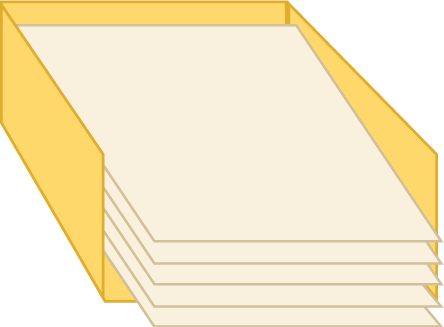
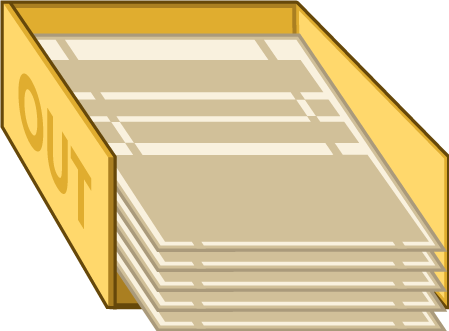
Scores + card backs

diff --git a/src/scripts/state/score.ts b/src/scripts/state/score.ts
@@ -1,21 +1,104 @@
 module Ala3.State {
     export class Score extends Phaser.State {
 
-        points: number;
-        accuracy: number;
-        gameWon: boolean;
+        score: any;
 
-        init(points, accuracy, gameWon) {
-            this.points = points;
-            this.accuracy = accuracy;
-            this.gameWon = gameWon;
-
-            console.log(points, accuracy, gameWon);
+        init(score) {
+            this.score = score;
         }
 
         create() {
+            this.add.sprite(0, 0, 'end-screen');
 
-            console.log('points', this.points);
+            let button = new Phaser.Rectangle(
+                693,
+                654,
+                304,
+                58
+            );
+
+            this.game.input.onDown.add(function (pointer: Phaser.Pointer) {
+                if (button.contains(pointer.x, pointer.y)) {
+                    this.restart();
+                }
+            }, this);
+
+            let fontStyle = {
+                font: '22px Arial',
+                colour: '#000'
+            };
+
+            // print results
+
+            let mult = 10;
+            let total = this.score.actionsCorrect * mult;
+            let bonus;
+
+            total += this.score.cards * mult;
+
+            if (this.score.difficulty === Game.DIFFICULTY_EASY) {
+                bonus = -(total * 0.2);
+                total = total + bonus;
+
+                bonus = Math.round(bonus);
+                total = Math.round(total);
+            } else if (this.score.difficulty === Game.DIFFICULTY_HARD) {
+                bonus = (total * 0.5);
+                total = total + bonus;
+
+                bonus = Math.round(bonus);
+                total = Math.round(total);
+            }
+
+
+            let s:string;
+
+            // expected
+            this.add.text(471, 395, this.score.actionsDone.toString(), fontStyle);
+
+            s = (this.score.actionsDone * mult).toString();
+            this.add.text(794, 395, s, fontStyle);
+
+            // successful
+            this.add.text(471, 420, this.score.actionsCorrect.toString(), fontStyle);
+
+            s = '-' + ((this.score.actionsDone - this.score.actionsCorrect) * mult).toString();
+            this.add.text(794, 420, s, fontStyle);
+
+            // solitaire
+            s = (this.score.cards * mult).toString();
+            this.add.text(795, 446, s, fontStyle);
+
+            // bonuses
+            if (this.score.difficulty === Game.DIFFICULTY_EASY) {
+                this.add.text(109, 499, 'LIFE\'S A BEACH DEDUCTION', fontStyle);
+                this.add.text(471, 499, '1', fontStyle);
+                this.add.text(794, 499, bonus.toString(), fontStyle);
+            } else if (this.score.difficulty === Game.DIFFICULTY_HARD) {
+                this.add.text(109, 499, 'WORKING HALLOWEEN BONUS', fontStyle);
+                this.add.text(471, 499, '1', fontStyle);
+                this.add.text(794, 499, bonus.toString(), fontStyle);
+            }
+
+            // total
+            fontStyle.font = '33px Arial';
+            this.add.text(841, 552, total.toString(), fontStyle);
+
+
+            // date
+
+            let today = new Date();
+            let dateString = today.toLocaleString('en-us', {
+                month: 'long',
+                day: 'numeric',
+                year: 'numeric'
+            });
+
+            fontStyle.font = 'bold 22px Arial';
+            this.add.text(433, 232, dateString.toUpperCase(), fontStyle);
+
+
+            /*console.log('points', this.points);
 
             let mult = Math.round(this.accuracy * 100);
 
@@ -27,9 +110,11 @@ module Ala3.State {
 
             if (this.gameWon) {
                 console.log('game won bonus (2x)', score * 2);
-            }
+            }*/
         }
 
-
+        restart() {
+            this.state.start('title', true);
+        }
     }
 }

diff --git a/src/scripts/state/game.ts b/src/scripts/state/game.ts
@@ -62,7 +62,7 @@ module Ala3.State {
 
             this.clock = this.add.sprite(397, 29, 'clock-0');
 
-            this.computer = new Entity.Computer(this.game, 548, -7);
+            this.computer = new Entity.Computer(this.game, 548, -7, this.difficulty);
             this.add.existing(this.computer);
 
             let shine = new Phaser.Sprite(this.game, 921, 74, 'computer-shine');
@@ -73,7 +73,7 @@ module Ala3.State {
             this.add.existing(this.cursorTool);
 
             this.trayOuterInbox = this.add.sprite(57, 424, 'tray-outer-inbox');
-            this.outbox = this.add.sprite(896, 424, 'outbox');
+            this.outbox = this.add.sprite(929, 435, 'outbox');
 
             this.sounds = {
                 paperIn: this.game.add.audio( 'paper-in'),
@@ -270,24 +270,12 @@ module Ala3.State {
         }
 
         gameOver(reason: number) {
-            let timeRemaining;
-            let accuracy = 0;
-
-            /*if (reason === Game.LOSE_CONDITION_TIME) {
-                timeRemaining = 0;
-            } else {
-                timeRemaining = this.game.time.now - this.startTime;
-            }*/
-
-            let points = this.computer.points;
-            let gameWon = reason === Game.WIN_CONDITION;
-
-            if (this.maxAvailScore) {
-                accuracy = this.currentScore / this.maxAvailScore;
-            }
-
-            this.game.state.start('scores', true, null,
-                points, accuracy, gameWon);
+            this.game.state.start('scores', true, null, {
+                actionsDone: this.maxAvailScore,
+                actionsCorrect: this.currentScore,
+                cards: this.computer.points,
+                difficulty: this.difficulty
+            });
         }
     }
 }

diff --git a/src/scripts/state/preloader.ts b/src/scripts/state/preloader.ts
@@ -6,13 +6,18 @@ module Ala3.State {
             this.loadingBar = new Entity.PreloadBar(this.game);
 
             this.load.image('title-screen', 'assets/images/title-screen.png');
+            this.load.image('end-screen', 'assets/images/end-screen.png');
             this.load.image('bg', 'assets/images/background.png');
 
             this.load.image('computer', 'assets/images/computer-screen.png');
             this.load.image('popup', 'assets/images/pop-up.png');
             this.load.image('computer-shine', 'assets/images/computer-shine.png');
-            this.load.image('card-back', 'assets/images/card-back-tropical.png');
+
             this.load.image('card-front', 'assets/images/card-front.png');
+
+            this.load.image('card-back-1', 'assets/images/card-back-tropical.png');
+            this.load.image('card-back-2', 'assets/images/card-back-normal.png');
+            this.load.image('card-back-3', 'assets/images/card-back-halloween.png');
 
             this.load.image('stapler', 'assets/images/stapler.png');
             this.load.image('paperclip-cup', 'assets/images/paperclip-cup.png');
@@ -70,7 +75,7 @@ module Ala3.State {
         }
 
         startGame() {
-            this.game.state.start('title', true, null, Game.DIFFICULTY_EASY);
+            this.game.state.start('title', true, null);
         }
 
         loadUpdate() {

diff --git a/src/scripts/entity/computer.ts b/src/scripts/entity/computer.ts
@@ -19,10 +19,12 @@ module Ala3.Entity {
         pointsLabel: Phaser.Text;
         points: number = 0;
         popupShowing: boolean = false;
+        difficulty: number;
 
-        constructor(game, x, y) {
+        constructor(game, x: number, y: number, difficulty: number) {
             super(game, x, y, 'computer');
 
+            this.difficulty = difficulty;
             this.completeStacks = [[], [], [], []];
             this.holdingStacks = [[], [], [], [], [], [], []];
             this.deck = [];
@@ -81,7 +83,7 @@ module Ala3.Entity {
             // fill cards
 
             for (let i = 0; i < 52; i++) {
-                let card = new Card(game, i);
+                let card = new Card(game, i, this.difficulty);
 
                 this.deck.push(card);
             }

diff --git a/src/scripts/entity/card.ts b/src/scripts/entity/card.ts
@@ -18,12 +18,14 @@ module Ala3.Entity {
         revealed: boolean = false;
         stackIndex: number;
         startDragPos: Phaser.Point;
+        difficulty: number;
 
-        constructor(game, id: number) {
-            super(game, 0, 0, 'card-back');
+        constructor(game, id: number, difficulty: number) {
+            super(game, 0, 0, 'card-back-' + difficulty);
 
             this.suit = Math.floor(id / 13);
             this.value = id % 13;
+            this.difficulty = difficulty;
 
             this.colour = this.suit <= 1 ? 'red' : 'black';
         }
@@ -81,7 +83,7 @@ module Ala3.Entity {
         }
 
         hide() {
-            this.loadTexture('card-back');
+            this.loadTexture('card-back-' + this.difficulty);
         }
 
         enableDrag() {

diff --git a/src/scripts/state/title.ts b/src/scripts/state/title.ts
@@ -15,14 +15,14 @@ module Ala3.State {
             let buttons = {};
 
             buttons[Game.DIFFICULTY_EASY] = new Phaser.Rectangle(
-                619,
+                476,
                 y,
                 cardSize.w,
                 cardSize.h
             );
 
             buttons[Game.DIFFICULTY_MEDIUM] = new Phaser.Rectangle(
-                476,
+                619,
                 y,
                 cardSize.w,
                 cardSize.h

diff --git a/src/scripts/game.ts b/src/scripts/game.ts
@@ -26,7 +26,9 @@ module Ala3 {
 
         playMusic() {
             this.music = new Phaser.Sound(this, 'track-1', 0.5, true);
-            this.music.play();
+            if (!this.music.isPlaying) {
+                this.music.play();
+            }
         }
     }
 }
